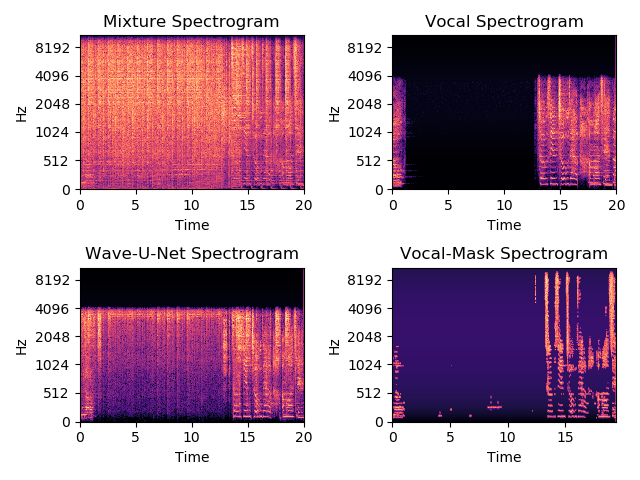
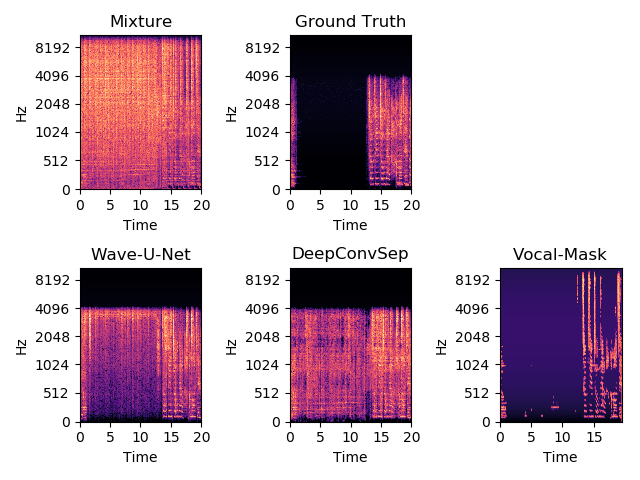
Add more images

diff --git a/plotloss.py b/plotloss.py
@@ -5,9 +5,14 @@ usage: plotloss.py <checkpoint-path>
 options:
     -h, --help                  Show this help message and exit
 """
-import matplotlib.pyplot as plt
 import torch
 from docopt import docopt
+import platform
+
+import matplotlib
+if platform.system() == 'Darwin':
+    matplotlib.use('TkAgg')
+import matplotlib.pyplot as plt
 
 def _load(checkpoint_path):
     use_cuda = torch.cuda.is_available()
@@ -34,6 +39,8 @@ def plot_loss(train_losses, valid_losses):
     validX, validY = zip(*valid_losses)
     plt.plot(trainX, trainY, label="Training")
     plt.plot(validX, validY, label="Validation")
+    plt.xlabel("Iterations")
+    plt.ylabel("Loss")
     plt.legend()
     plt.show()
 

diff --git a/README.md b/README.md
@@ -10,17 +10,13 @@ Given a piece of music as input, we want to separate the vocals from the accompa
 
 ### Approach
 
-Since generative models were difficult to train and the model potentially very large, especially in audio space, we decided it would be best to work with images by converting the input audio to spectrograms via **Short Time Fourier Transforms** (STFT). This has a lot of precedent in previous audio-related models as spectrograms can encapsulate information about temporally-related frequences in a spatially-related fashion. 
+We initially considered a WaveNet based approach [1], but since the models were large and potentially difficult to train, we decided it would be best to work with images by converting the input audio to spectrograms via **Short Time Fourier Transforms** (STFT). Previous [spectrogram-based approaches](https://github.com/MTG/DeepConvSep) (DeepConvSep) used an encoder-decoder strategy applied to the entire input spectrogram [2] in order to generate a binary mask of vocal vs non-vocal activity, then this mask is applied to the mixture to generate the isolated spectrograms. However, we found the separation by these methods to be lacking, and looked to make improvements on it. Audio sample comparisons between Wave-U-Net, DeepConvSep, and our model (Vocal-Mask) can be found in the **Results** section.
 
-How should we extract the vocals based on the spectrogram? We wanted to reduce the problem to a simpler problem as the generative models we tried first were difficult to train to produce something other than white noise. What we came to use is to convert the vocal spectrogram to a binary mask, where 1s represent the presence of vocal activity and 0s represent the lack of vocal activity. The model should learn to do a pixel-level classification of the input spectrogram as either containing or not containing vocal activity. At inference time, the mask can be applied to the mixture spectrogram to generate the vocal-only spectrogram. 
+Due to exploration in other works in the audio domain, we initially chose to use **Mel-scale Spectrograms** as our spectrogram of choice. Mel spectrograms use a transformation matrix to convert a STFT-generated spectrogram to a Mel-scaled spectrogram, which attempts to weight magnitudes of frequencies according to their approximate sensitivity to the human ear. This is useful for speech related models as the highest sensitivity is in the human vocal range. However, the biggest issue with this approach is that recovering the audio from a Mel spectrogram is not trivial. The Mel-transform matrix is non-square, so performing an inverse matrix multiplication to recover the STFT spectrogram is not really possible. One solution we found was to use a [WaveRNN model](https://github.com/G-Wang/WaveRNN-Pytorch) to recover the audio, since this project uses Mel spectrograms as input. We found it very challenging to train this model on musical datasets, and even with speech datasets the audio may not be properly recovered as the Mel spectrogram has a very limited number of frequency bins, thus significant information about the original pitch of the audio is lost.  
 
-Due to exploration in other works in the audio domain, we initially chose to use **Mel-scale Spectrograms** as our spectrogram of choice. Mel spectrograms use a transformation matrix to convert a STFT-generated spectrogram to a Mel-scaled spectrogram, which attempts to weight magnitudes of frequencies according to their approximate sensitivity to the human ear. This is useful for speech related models as the highest sensitivity is in the human vocal range. 
+As a result, we decided to use spectrograms generated by STFT. Additionally, we applied [Mel perceptual weighting](https://librosa.github.io/librosa/generated/librosa.core.perceptual_weighting.html) to the input spectrograms. After the mask is generated by the model, the mask is applied to the unweighted spectrogram and the audio recovered via inverse STFT. One big advantage of using the full STFT with the masking approach is that we are able to keep the phasing information when masking the mixture, which is necessary for recovering high quality audio. However, since the phasing information does not get passed into the model. This may be an area for further exploration in the future. 
 
-However, the biggest issue with this approach is that recovering the audio from a Mel spectrogram is not trivial. The Mel-transform matrix is non-square, so performing an inverse matrix multiplication to recover the STFT spectrogram is not really possible. One solution we found was to use a [WaveRNN model](https://github.com/G-Wang/WaveRNN-Pytorch) to recover the audio, since this project uses Mel spectrograms as input. We found it very challenging to train this model on musical datasets, and even with speech datasets the audio may not be properly recovered as the Mel spectrogram has a very limited number of frequency bins, thus significant information about the original pitch of the audio is lost.  
-
-The solution to this was fairly obvious in hindsight, which is to simply use the original STFT spectrogram instead of the Mel spectrogram. The audio can be recovered via inverse STFT, and although some information is lost, the results are quite good qualitatively. We still wanted to keep the Mel weightings, so what we did instead was to create spectrograms via STFT, and apply [Mel perceptual weighting](https://librosa.github.io/librosa/generated/librosa.core.perceptual_weighting.html). One big advantage of using the full STFT with the masking approach is that we are able to keep the phasing information when masking the mixture, which is necessary for recovering high quality audio.
-
-*TODO: Add diagrams and sample waveforms here to demonstrate that the masking approach has potential*
+The DeepConvSep model used a combination of vertical and horizontal convolutions in order to capture the timbre of the input audio. Additionally, since the output size is the same as the input size, the amount of data the model uses to produce the output is 1-to-1. In our approach, we captured the timbre information by using very small slices of the input spectrogram, and the model produces the predicted mask for only a single time window in the spectrogram. This way, the timbre is captured by the spectrogram framing, and the model has more input data to work with compared to the output required (25-to-1). Additionally, it allowed us to use a slightly modified ResNet18 model as our convolutional network (we changed the initial downsampling convolution to only downsample in the _y_ direction). 
 
 <p align="center">
     <img src="assets/model_approach.png"/>
@@ -30,25 +26,23 @@ This is the approach we ended up with. Input mixture waveforms and target vocal 
 
 For the vocal spectrogram, only the center column of the image is kept. This is converted to a binary mask and used as the target label with size (513,). The mixture spectrograms pass through the convolutional neural network, which ends with a 513-way fully-connected layer with a sigmoid to constrain the output to the 0-1 range. We chose to use Binary Cross Entropy Loss as it was well suited for our output and target. 
 
-For the convolutional neural network, we initially tried a fairly basic CNN with 4 convolution layers with ReLU activation and pooling layers, followed by 2 fully-connected layers. However, we were able to achieve a better validation loss with a small residual network.
-
 <p align="center">
     <img src="assets/model_inference.png"/>
 </p>
 
 At inference time, the input waveforms are sliced into overlapping windows. Each window is converted to Mel-weighted spectrogram and passed through the network to generate the binary mask. The masks are then concatenated and applied to the pre-Mel-weighted spectrogram (which preserves magnitude and phasing information) to produce the isolated vocal-only spectrogram. To produce the background-only spectrogram, the mask can be inverted. The audio can then be recovered via inverse STFT.
 
-A slightly modified version of ResNet18 was used for the model. The main change was for the initial downsampling to use a 7x3 kernel with no downsampling in the _x_ direction, since the input spectrograms have dimensions 513x25. 
+Different window sizes for the input spectrogram were tested. Intuitively, larger windows give the network more context for making the prediction. We found that larger window sizes did indeed produce smaller losses, but at a diminishing rate. Larger window sizes also increased GPU memory consumption. We opted to use 25 hop lengths for this project, which is approximately ~290ms of audio. 
 
-### Past Works
-
-*TODO*
+<p align="center">
+    <img src="assets/window_sizes_train.png"/> <img src="assets/window_sizes_valid.png"/>
+</p>
 
 ## Usage
 
 ### Dataset
 
-We used the [DSD100 dataset](https://sigsep.github.io/datasets/dsd100.html) for this project. The `build_dataset.py` script converts the input audio to spectrogram and saves index slices of the spectrogram. At the smallest slice striding, 100 songs produces approximately 2 million example slices. Not only does this produce more examples for training, but we found the overlapping windows also served the purpose of data-augmentation as it is essentially a horizontal-translation augmentation. We quickly noticed that more examples was improving our models learning ability much more than the complexity and number of parameters of our model, so we augmented the original DSD100 dataset by manually assembling mixture and vocal examples. The process for this was to find waveform stems from remix competitions, sum the stems to produce the mixture, then sum the vocal stems to produce the vocal waveform. 
+We used the [DSD100 dataset](https://sigsep.github.io/datasets/dsd100.html) for this project. The `build_dataset.py` script downsamples the input audio to `hparams.sample_rate` and converts the downsampled audio to spectrogram and saves index slices of the spectrogram. At the smallest slice striding, 100 songs produces approximately 2 million example slices. Not only does this produce more examples for training, but we found the overlapping windows also served the purpose of data-augmentation as it is essentially a horizontal-translation augmentation. We quickly noticed that more examples was improving our models learning ability much more than the complexity and number of parameters of our model, so we augmented the original DSD100 dataset by manually assembling mixture and vocal examples. The process for this was to find waveform stems from remix competitions, sum the stems to produce the mixture, then sum the vocal stems to produce the vocal waveform. 
 
 To generate the dataset, download the DSD100 dataset, then move all files in the Mixtures/Dev and Mixtures/Test directories to the Mixtures/ directory, and do the same for Sources/Dev and Sources/Test. Then, delete the Dev and Test subdirectories and run the script as follows:  
  
@@ -61,18 +55,16 @@ The window size and striding for the slices are controlled by `hparams.stft_fram
 ```python train.py <data dir> --checkpoint=<path to checkpoint file (*.pth)>```
 
 The first argument should be the same as the output directory of `build_dataset`.  
-A pretrained model for `hparams.model_type = 'resnet18'` can be downloaded here: [resnet18_step000033000.pth](https://drive.google.com/open?id=19QciqI26LXrJtQqPiilPzhQHNGbx00pP).
-
-*TODO*
+A pretrained model for `hparams.model_type = 'resnet18'` can be downloaded here: [resnet18_step000033000.pth](https://drive.google.com/open?id=19QciqI26LXrJtQqPiilPzhQHNGbx00pP).  
+The window size can be modified with `hparams.stft_frames`. Larger window sizes will require more GPU memory.
 
 ### Testing
 
 ```python generate.py <path to checkpoint file (*.pth)> <path to mixture wav>```  
 
-This will generate a vocal wav file in the `generated` directory. Below are the parameters in `hparams.py` that control how the mask is applied during inference. This can have some differences in the way the output audio sounds.  
-- `hparams.mask_at_eval` - If `True`, the model output will be converted to a mask. If `False`, it will be left as values in the range (0,1). This can produce less harsh cutoffs.  
-- `hparams.eval_mask_threshold` - If `mask_at_eval` is `True`, use this to set the masking threshold. Range (0,1).  
-- `hparams.noise_gate` - If `mask_at_eval` is `False`, use this to set a cutoff where all values below this threshold are zeroed. Range (0,1).
+This will generate a vocal wav file in the `generated` directory. Below are the parameters in `hparams.py` that control how the mask is applied during inference.
+- `hparams.mask_at_eval` - If `True`, the model output will be converted to a binary mask. If `False`, it will be left as a softmask with values in the range (0,1). 
+- `hparams.eval_mask_threshold` - If `mask_at_eval` is `True`, use this to set the masking threshold. Range (0,1). Lower values will allow more audio through, but may also let some instrumentation through as well.
 
 ## Results
 
@@ -82,31 +74,37 @@ This will generate a vocal wav file in the `generated` directory. Below are the 
 
 A cyclic learning rate scheduler was used to train the model. A learning rate finder was used find reasonable learning rate boundaries [5]. Based on the plot below, the learning range was selected to be from 5e-5 to 2e-4.
 
-Learning Rate  
 <p align="center">
     <img src="assets/lr_find.png"/>
 </p>
 
 The model was trained for about 4 epochs in total - further training did not improve the validation loss.
 
-Training Loss  
 <p align="center">
     <img src="assets/training_loss.png"/>
+</p>
+
+### Generated Masks  
+
+Below are example masks generated by the model and the corresponding masked-mixture spectrograms.  
+
+<p align="center">
+    <img src="assets/mask1.png"/> <img src="assets/mask2.png"/>
 </p>
 
 ### Example Audio  
 Audio examples were taken from [here](http://jordipons.me/apps/end-to-end-music-source-separation/) for comparison purposes.
 
-| Mixture | Wave-U-Net | Vocal-Mask (Threshold=0.3) | Vocal-Mask (Threshold=0.5) | Ground Truth |
+| Mixture | Wave-U-Net | DeepConvSep | Vocal-Mask | Ground Truth |
 |--------------------------------------------------------------------------------|--------------------------------------------------------------------------------|--------------------------------------------------------------------------------|--------------------------------------------------------------------------------|--------------------------------------------------------------------------------|
-| [Sample 1](https://drive.google.com/open?id=1ZO4g_1R3W1fVodf9RouIdywGIIAVJpvs) | [Sample 1](https://drive.google.com/open?id=1A1w2CKLJCrEX34VPRG1Yun5Hppgias1S) | [Sample 1](https://drive.google.com/open?id=16u4i3a0uQuqTSkXP2YBC40JYr2VBxzwT) | [Sample 1](https://drive.google.com/open?id=1g4J3qaFVufbinhRMSbpzr6GKxzOshqLC) | [Sample 1](https://drive.google.com/open?id=1EBcu9BbGcXvAwgBHlkbRTmH-j97XLNGy) |
-| [Sample 2](https://drive.google.com/open?id=1alGKLhc0J8yc_8P4GpBgns0DRtJMcFP4) | [Sample 2](https://drive.google.com/open?id=1y2LiTnpf4khqqVQWEs_llHrwR9j8BWAy) | [Sample 2](https://drive.google.com/open?id=1yHYiZPfLoaLnhXtvHOlz3BKyWNwUEU8H) | [Sample 2](https://drive.google.com/open?id=1K8r6v8JPKY0lK1rPalLgNWJThDsdZXXs) | [Sample 2](https://drive.google.com/open?id=1Vh3mKoC1fddg-6142pggoBreCCla7dCg) |
-| [Sample 3](https://drive.google.com/open?id=1GHGi8i-eRXNEnk88-iLxyOYa0uz8KDlM) | [Sample 3](https://drive.google.com/open?id=1tf1l4yJh8GG_o3pejD5TZm3s8Dw4IrZP) | [Sample 3](https://drive.google.com/open?id=196va9Kz493MpKcn4msbfvrAsmswOhcFL) | [Sample 3](https://drive.google.com/open?id=1SkcZlRjWwReP-W9_vjE1AcR6vUjhHiLc) | [Sample 3](https://drive.google.com/open?id=1FiJIm1o3Iz6R52W8oDd2nMTH2INyPzDy) |
-| [Sample 4](https://drive.google.com/open?id=1l8wmEc_6yd32VPUYDYOUFZINqtK-Eif4) | [Sample 4](https://drive.google.com/open?id=1BZJDfQWgqJs_s-QWoU0DM4Ma1JZKPBYL) | [Sample 4](https://drive.google.com/open?id=1_6Bs1sSxPMO1InelVyo49OsQ4nEK8Zsj) | [Sample 4](https://drive.google.com/open?id=10OKu1K_E34J7vyzJ6EzlsOoCoN0XA552) | [Sample 4](https://drive.google.com/open?id=1sok6Pd3MweEw0LDJ8TWG8CxprxPr6pia) |
-| [Sample 5](https://drive.google.com/open?id=1wHpW9AxXDg-BZMyxc4XndCHDgkZ5zaL7) | [Sample 5](https://drive.google.com/open?id=1ENCfiPg--AAF3cDRgN9_ebRR4v-W_QYF) | [Sample 5](https://drive.google.com/open?id=1K1ztdEJo46WCwkmEAY6APTRHA88uPxNJ) | [Sample 5](https://drive.google.com/open?id=1apQwHXJybjv1gXSs8ABl8ONemE03syMr) | [Sample 5](https://drive.google.com/open?id=1Nr1oCb2NE0qZepbkBpJ6oR_6fDxbGvqW) |
+| [Sample 1](https://drive.google.com/open?id=1ZO4g_1R3W1fVodf9RouIdywGIIAVJpvs) | [Sample 1](https://drive.google.com/open?id=1A1w2CKLJCrEX34VPRG1Yun5Hppgias1S) | [Sample 1](https://drive.google.com/open?id=18VOe6ADNbFN7KibjctGmKPwJ5UXleg7Y) | [Sample 1](https://drive.google.com/open?id=16u4i3a0uQuqTSkXP2YBC40JYr2VBxzwT) | [Sample 1](https://drive.google.com/open?id=1EBcu9BbGcXvAwgBHlkbRTmH-j97XLNGy) |
+| [Sample 2](https://drive.google.com/open?id=1alGKLhc0J8yc_8P4GpBgns0DRtJMcFP4) | [Sample 2](https://drive.google.com/open?id=1y2LiTnpf4khqqVQWEs_llHrwR9j8BWAy) | [Sample 2](https://drive.google.com/open?id=1ZSH0R6s5K3kAO3VW_5cR79xu8mxNpdtW) | [Sample 2](https://drive.google.com/open?id=1yHYiZPfLoaLnhXtvHOlz3BKyWNwUEU8H) | [Sample 2](https://drive.google.com/open?id=1Vh3mKoC1fddg-6142pggoBreCCla7dCg) |
+| [Sample 3](https://drive.google.com/open?id=1GHGi8i-eRXNEnk88-iLxyOYa0uz8KDlM) | [Sample 3](https://drive.google.com/open?id=1tf1l4yJh8GG_o3pejD5TZm3s8Dw4IrZP) | [Sample 3](https://drive.google.com/open?id=1ND9H6Det-yWDjjhwEzZjjgflBQWyeN2W) | [Sample 3](https://drive.google.com/open?id=196va9Kz493MpKcn4msbfvrAsmswOhcFL) | [Sample 3](https://drive.google.com/open?id=1FiJIm1o3Iz6R52W8oDd2nMTH2INyPzDy) |
+| [Sample 4](https://drive.google.com/open?id=1l8wmEc_6yd32VPUYDYOUFZINqtK-Eif4) | [Sample 4](https://drive.google.com/open?id=1BZJDfQWgqJs_s-QWoU0DM4Ma1JZKPBYL) | [Sample 4](https://drive.google.com/open?id=1etJQe4R3lo47nV4GhgXOyBlsUGVLcw0c) | [Sample 4](https://drive.google.com/open?id=1_6Bs1sSxPMO1InelVyo49OsQ4nEK8Zsj) | [Sample 4](https://drive.google.com/open?id=1sok6Pd3MweEw0LDJ8TWG8CxprxPr6pia) |
+| [Sample 5](https://drive.google.com/open?id=1wHpW9AxXDg-BZMyxc4XndCHDgkZ5zaL7) | [Sample 5](https://drive.google.com/open?id=1ENCfiPg--AAF3cDRgN9_ebRR4v-W_QYF) | [Sample 5](https://drive.google.com/open?id=19bQGqkKEbHjYrQ-_VB0TqaSORVmu1xGu) | [Sample 5](https://drive.google.com/open?id=1K1ztdEJo46WCwkmEAY6APTRHA88uPxNJ) | [Sample 5](https://drive.google.com/open?id=1Nr1oCb2NE0qZepbkBpJ6oR_6fDxbGvqW) |
 
 ### Spectrogram Comparisons  
-Note: The ground truth and Wave-U-Net samples have lower sample rate, so the spectrogram is cut off above 4092Hz. 
+Note: The Ground Truth, Wave-U-Net, and DeepConvSep samples have lower sample rate, so the spectrogram is cut off above 4092Hz. 
 
 Sample 1 Spectrograms  
 <p align="center">
@@ -133,7 +131,16 @@ Sample 5 Spectrograms
     <img src="assets/specs5.png"/>
 </p>
 
-## Discussion
+## Discussion  
+
+The model converges very quickly within 2-3 epochs and eventually reaches a validation loss of about 0.165. 
+We found that the validation loss improved significantly the more training data was available, so although the qualitative results of our model are decent, it would likely further improve with more data. 
+
+Qualitatively, we found that our model worked best on acoustic or pop music where the vocals are more prominent in the mix. Fuller mixes have less variation between peaks and troughs in the spectrogram, which resulted in the model having a harder time picking out vocal features and creating less separation. 
+Compared to Wave-U-Net, we found that Wave-U-Net was able to produce stronger isolations, but at the cost of adding noticable noise artifacts. Our model was generally very liberal with cutting out audio, and could produce fairly high quality audio with good vocal isolation on some input, but tended to cut out too much vocal information in other input. In particular, our model seems to cut out lower frequency components to the vocal. This might be improved by changing how the input spectrograms are preprocessed. Compared with DeepConvSep, our model produced better separation on most inputs. 
+
+There are several next steps that could be taken to improve the model as is. One area is to increase the amount of training examples, but this likely would not help with the full-mix problem. Another area is increasing the number of input channels. The model currently uses a single input channel containing only the monophonic magnitude spectrogram. Another possibility is to use two channel input, one channel for each of the [mid and side signals](https://www.izotope.com/en/blog/mastering/what-is-midside-processing.html). The mid signal is comprised of elements that are common to both the left and right audio signals, while the side signal is comprised of the difference between the left and right signals. This may help because in recorded music, the vocals and percussion tend to be mostly contained in the mid signal, while other accompaniment may be spread between mid and side signals. Stereo processing may also be possible (one channel for the left audio and the other channel for the right audio), but these will likely look more similar to each other than mid-side channels.
+
 
 ## References
 
